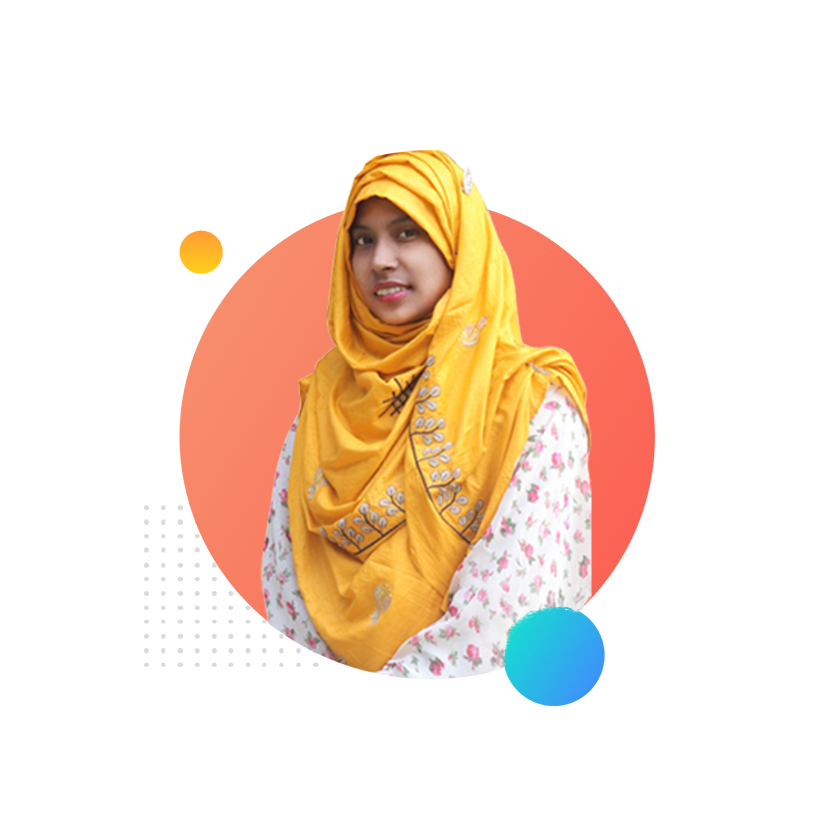
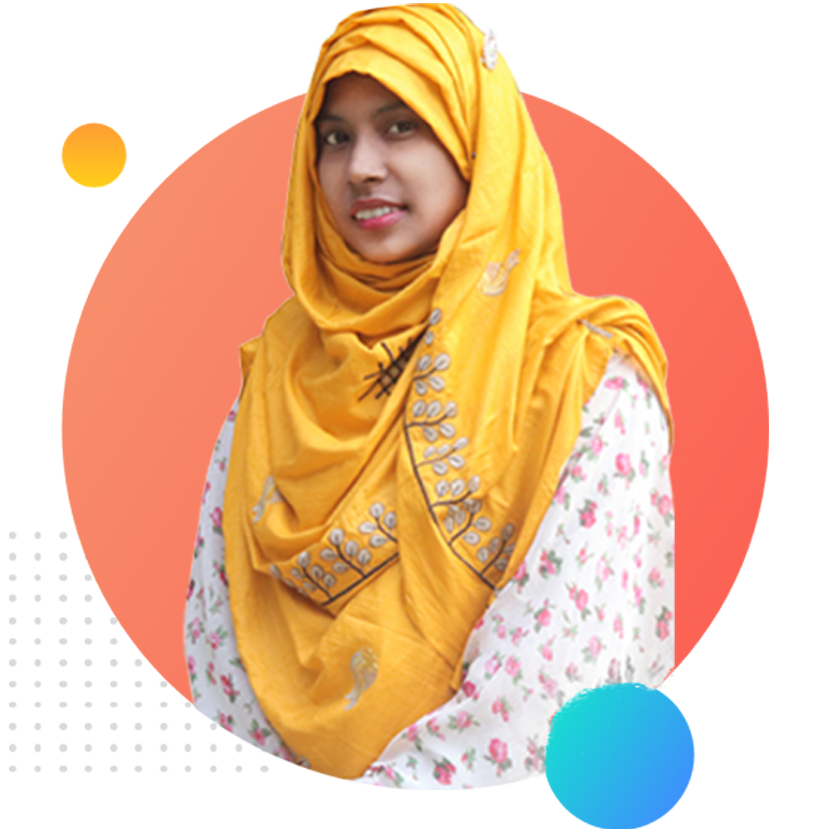
header add

diff --git a/index.html b/index.html
@@ -1,5 +1,6 @@
 <!DOCTYPE html>
 <html lang="en">
+
 <head>
     <meta charset="UTF-8">
     <meta http-equiv="X-UA-Compatible" content="IE=edge">
@@ -10,18 +11,26 @@
     <link href="https://fonts.googleapis.com/css2?family=Poppins:wght@400&display=swap" rel="stylesheet">
     <link rel="stylesheet" href="style.css">
 </head>
+
 <body>
     <section class="header">
-        <div class="header-left">
+        <div class="header-half">
             <h1>Welcome To</h1>
-            <h2>Is My Coded World</h2>
-            <h4>I am Professional  Web Designer and Developer</h4>
-            <p>Hi there, you must be looking for a WordPress web developer that is skilled, knowledgeable, caring, professional, and easy to communicate with. If that's so, you have come to the right place. My name is Meem, and I have developed hundreds of WordPress websites for individuals and businesses all across the world. Whether you need a new WordPress website design, redesign, or optimization I will take care of you. Contact me and let's chat about your web development needs. We will happily plan yours next project together and work with collaboration.</p>
+            <h2>Is <span class="orange-color">My Coded</span> World</h2>
+            <h4>I am Professional Web Designer and Developer</h4>
+            <p>Hi there, you must be looking for a WordPress web developer that is skilled, knowledgeable, caring,
+                professional, and easy to communicate with. If that's so, you have come to the right place. My name is
+                Meem, and I have developed hundreds of WordPress websites for individuals and businesses all across the
+                world. Whether you need a new WordPress website design, redesign, or optimization I will take care of
+                you. Contact me and let's chat about your web development needs. We will happily plan yours next project
+                together and work with collaboration.</p>
+            <a class="link-button" target="_blank" href="https://www.linkedin.com/in/iya-meem-8368ba180/">HIRE ME</a>
         </div>
 
-        <div class="header-right">
-            
+        <div class="header-half">
+            <img src="images/my-bg.png" alt="">
         </div>
     </section>
 </body>
+
 </html>

diff --git a/style.css b/style.css
@@ -1,3 +1,42 @@
 body{
     font-family: 'Poppins', sans-serif;
+    margin: 0;
+    padding: 0;
+} 
+h1{
+    font-size:50px;
+}
+h2{
+    font-size:42px;
+}
+h4{
+    font-size:24px;
+}
+section{
+    display: flex;
+}
+.header-half{
+    width: 50%;
+    padding-left: 5%;
+}
+.header-half img{
+    width:80%;
+    align-items: center;
+}
+
+.orange-color{
+    color:tomato;
+}
+.link-button{
+    text-decoration: none;
+    color: white;
+    font-weight: 700;
+    background-image: linear-gradient(orange, tomato );
+    padding: 10px 40px;
+    border-radius: 5px;
+
+}
+.header{
+    background-image: url(images/top-banner.png);
+    background-repeat: no-repeat;
 }
